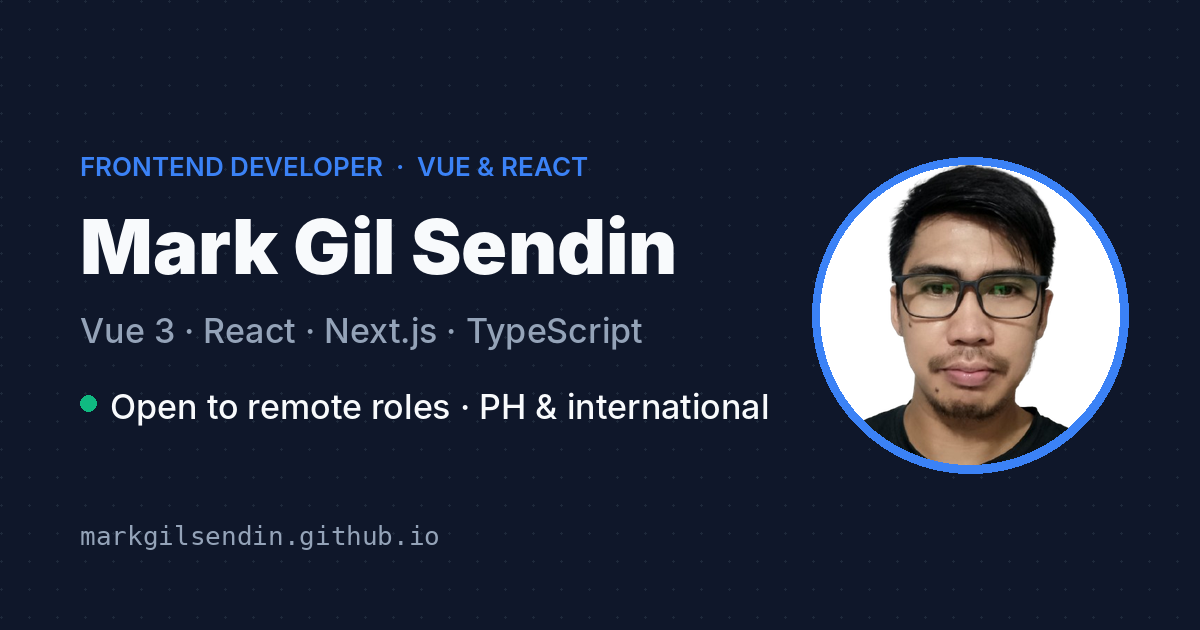
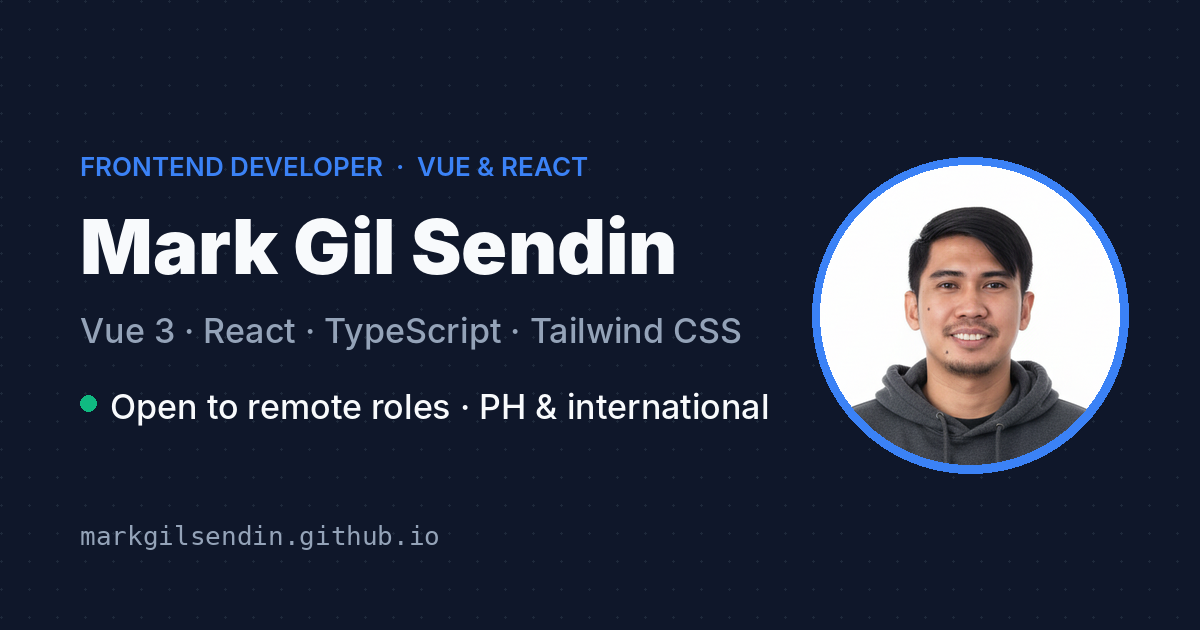
refactor: Update and add images, update contact section

Changed region(s): [[0.7092, 0.2413, 0.925, 0.754], [0.2467, 0.4825, 0.6167, 0.573]]

diff --git a/src/components/Contact.vue b/src/components/Contact.vue
@@ -10,14 +10,21 @@
         05 &mdash; CONTACT
       </p>
 
+      <!-- Text + Card -->
+      <div class="grid grid-cols-1 lg:grid-cols-12 gap-10 lg:gap-14 items-start">
+
+      <!-- Left Column: Heading, email, actions -->
+      <div class="lg:col-span-7 space-y-8">
+
       <!-- Main Heading & Description Container -->
       <div class="max-w-2xl space-y-4">
-        <h2 class="text-3xl sm:text-4xl lg:text-5xl font-extrabold text-main tracking-tight leading-tight">
-          Open to remote frontend roles.
+        <h2 class="text-3xl sm:text-4xl lg:text-5xl font-extrabold text-main tracking-tight leading-tight text-balance">
+          Open to remote roles and freelance projects.
         </h2>
         <p class="text-sm md:text-lg text-main/70 font-normal leading-relaxed">
-          I'm looking for a Vue or React role with a team in the Philippines or abroad.
-          If you're hiring, or want to talk about a role, I'd be glad to hear from you.
+          I'm looking for a Vue or React role with a team in the Philippines or abroad, and I'm also open to
+          freelance frontend and website projects. If you're hiring or have a project in mind, I'd be glad to
+          hear from you.
         </p>
       </div>
 
@@ -75,6 +82,37 @@
         </a>
       </div>
 
+      </div>
+
+      <!-- Right Column: Working with me -->
+      <aside class="lg:col-span-5 w-full bg-canvas/60 border border-main/10 rounded-2xl p-6 sm:p-8 space-y-5 shadow-[0_10px_20px_10px_rgba(0,0,0,0.04)]">
+        <p class="font-mono text-xs uppercase tracking-wider font-bold text-primary">
+          Working with me
+        </p>
+
+        <dl class="space-y-4">
+          <div
+            v-for="item in workingDetails"
+            :key="item.label"
+            class="flex items-start gap-3.5"
+          >
+            <span class="w-9 h-9 rounded-lg bg-primary/10 text-primary flex items-center justify-center shrink-0">
+              <Icon :icon="item.icon" class="w-4 h-4" />
+            </span>
+            <div class="min-w-0">
+              <dt class="font-mono text-[11px] uppercase tracking-wider text-main/50">
+                {{ item.label }}
+              </dt>
+              <dd class="text-sm md:text-base font-semibold text-main/90">
+                {{ item.value }}
+              </dd>
+            </div>
+          </div>
+        </dl>
+      </aside>
+
+      </div>
+
     </div>
   </section>
 </template>
@@ -87,7 +125,15 @@ import { ROUTES, CV_URL } from '../constant/routes'
 const email = 'markgil.p.sendin@gmail.com'
 const isCopied = ref(false)
 
-const mailtoUrl = `mailto:${email}?subject=${encodeURIComponent('Frontend Developer Opportunity')}`
+const mailtoUrl = `mailto:${email}?subject=${encodeURIComponent('Frontend Role / Project Inquiry')}`
+
+// Practical details for recruiters and clients. Only list what is true.
+const workingDetails = [
+  { label: 'Time zone', value: 'Philippines (UTC+8)', icon: 'lucide:clock' },
+  { label: 'Open to', value: 'Full-time remote roles and freelance projects', icon: 'lucide:briefcase' },
+  { label: 'Work setup', value: 'Remote', icon: 'lucide:laptop' },
+  { label: 'Best way to reach me', value: 'Email', icon: 'lucide:mail' }
+]
 
 const contactLinks = [
   { 

diff --git a/index.html b/index.html
@@ -2,10 +2,12 @@
 <html lang="en">
   <head>
     <meta charset="UTF-8" />
-    <link rel="icon" type="image/png" href="/my-icon.png" />
+    <link rel="icon" type="image/svg+xml" href="/favicon.svg" />
+    <link rel="icon" type="image/png" sizes="32x32" href="/favicon-32.png" />
+    <link rel="apple-touch-icon" href="/apple-touch-icon.png" />
     <meta name="viewport" content="width=device-width, initial-scale=1.0" />
     <title>Mark Gil Sendin | Frontend Developer (Vue &amp; React)</title>
-    <meta name="description" content="Mark Gil Sendin is a frontend developer in the Philippines building Vue 3 and React apps with Next.js, TypeScript and Tailwind CSS. Open to remote frontend roles, in the Philippines or international." />
+    <meta name="description" content="Mark Gil Sendin is a frontend developer in the Philippines building Vue 3 and React apps with TypeScript and Tailwind CSS. Open to remote frontend roles, in the Philippines or international." />
     <meta name="author" content="Mark Gil Sendin" />
     <meta name="theme-color" content="#0f172a" />
     <link rel="canonical" href="https://markgilsendin.github.io/" />
@@ -15,7 +17,7 @@
     <meta property="og:site_name" content="Mark Gil Sendin" />
     <meta property="og:url" content="https://markgilsendin.github.io/" />
     <meta property="og:title" content="Mark Gil Sendin | Frontend Developer (Vue &amp; React)" />
-    <meta property="og:description" content="Frontend developer building Vue 3 and React apps with Next.js, TypeScript and Tailwind CSS. Open to remote roles, PH and international." />
+    <meta property="og:description" content="Frontend developer building Vue 3 and React apps with TypeScript and Tailwind CSS. Open to remote roles, PH and international." />
     <meta property="og:image" content="https://markgilsendin.github.io/og-image.png" />
     <meta property="og:image:width" content="1200" />
     <meta property="og:image:height" content="630" />
@@ -24,7 +26,7 @@
     <!-- Twitter / X -->
     <meta name="twitter:card" content="summary_large_image" />
     <meta name="twitter:title" content="Mark Gil Sendin | Frontend Developer (Vue &amp; React)" />
-    <meta name="twitter:description" content="Frontend developer building Vue 3 and React apps with Next.js, TypeScript and Tailwind CSS. Open to remote roles, PH and international." />
+    <meta name="twitter:description" content="Frontend developer building Vue 3 and React apps with TypeScript and Tailwind CSS. Open to remote roles, PH and international." />
     <meta name="twitter:image" content="https://markgilsendin.github.io/og-image.png" />
   </head>
   <body>

diff --git a/src/components/About.vue b/src/components/About.vue
@@ -10,6 +10,12 @@
         01 &mdash; ABOUT
       </p>
 
+      <!-- Text + Photo -->
+      <div class="grid grid-cols-1 lg:grid-cols-12 gap-10 lg:gap-14 items-start">
+
+      <!-- Left Column: Text -->
+      <div class="lg:col-span-7 space-y-6 sm:space-y-8">
+
       <!-- Main Heading -->
       <div class="max-w-3xl">
         <h2 class="text-2xl sm:text-3xl lg:text-4xl font-extrabold text-main tracking-tight">
@@ -37,9 +43,33 @@
           What I'm looking for
         </p>
         <p class="text-sm md:text-base text-main/80 leading-relaxed">
-          A remote frontend role on a Vue or React team, in the Philippines or abroad. I want to keep growing by owning
-          features end to end and writing well-structured TypeScript.
+          A remote frontend role on a Vue or React team, in the Philippines or abroad. I'm also open to freelance
+          frontend and website projects. I want to keep growing by owning features end to end and writing
+          well-structured TypeScript.
         </p>
+      </div>
+
+      </div>
+
+      <!-- Right Column: Photo -->
+      <figure class="lg:col-span-5 w-full max-w-xs sm:max-w-sm mx-auto lg:max-w-none lg:mt-2">
+        <div class="relative">
+          <!-- Offset accent frame -->
+          <div
+            class="absolute inset-0 translate-x-3 translate-y-3 sm:translate-x-4 sm:translate-y-4 rounded-2xl border-2 border-primary/30"
+            aria-hidden="true"
+          ></div>
+          <img
+            src="/about-photo.png"
+            alt="Mark Gil Sendin"
+            width="800"
+            height="1000"
+            loading="lazy"
+            class="relative w-full h-auto aspect-[4/5] object-cover rounded-2xl border border-main/10 bg-white shadow-[0_10px_20px_10px_rgba(0,0,0,0.04)]"
+          />
+        </div>
+      </figure>
+
       </div>
 
       <div class="pt-8 space-y-2">

diff --git a/src/components/Hero.vue b/src/components/Hero.vue
@@ -17,9 +17,9 @@
             <span class="block text-4xl sm:text-5xl xl:text-6xl font-black text-main tracking-tight leading-[1.1]">
               Hi, I'm Mark Gil.
             </span>
-            <span class="block text-xl sm:text-2xl xl:text-3xl font-semibold text-main/70 tracking-tight leading-snug max-w-xl">
+            <span class="block text-xl sm:text-2xl xl:text-3xl font-semibold text-main/70 tracking-tight leading-snug max-w-xl text-balance">
               I build responsive web interfaces with
-              <span class="text-primary">Vue and React</span>.
+              <span class="whitespace-nowrap"><span class="text-primary">Vue and React</span>.</span>
             </span>
           </h1>
 

diff --git a/src/components/global/Navbar.vue b/src/components/global/Navbar.vue
@@ -7,8 +7,10 @@
         <div class="relative">
           <div class="w-12 h-12 bg-white rounded-full overflow-hidden border-2 border-primary/80 group-hover:border-primary transition-all duration-300 group-hover:shadow-primary/20">
             <img 
-              src="/profile.png" 
-              alt="Mark Gil Sendin" 
+              src="/avatar.jpg"
+              alt="Mark Gil Sendin"
+              width="48"
+              height="48"
               class="w-full h-full object-cover object-center"
             />
           </div>
